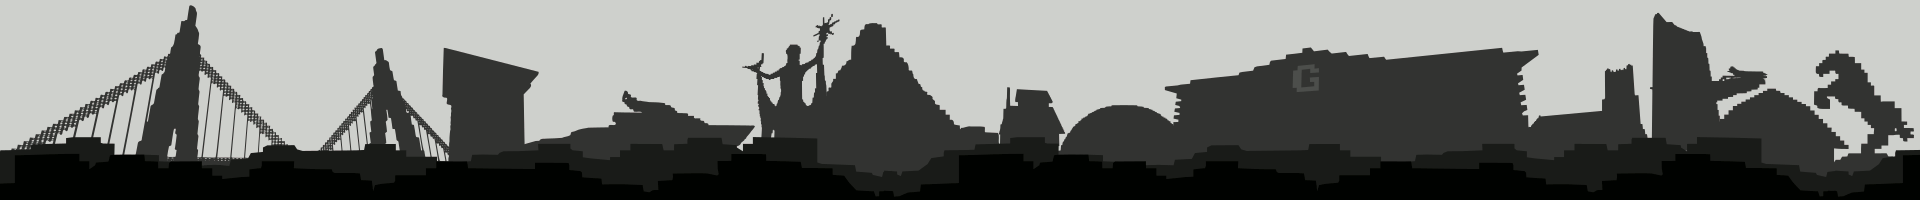
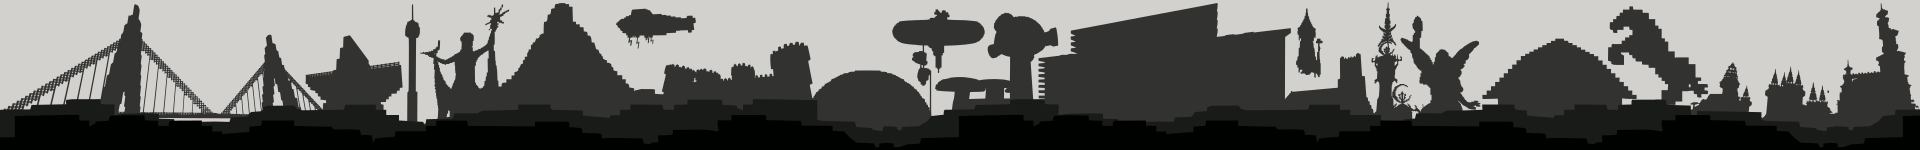
Update footer image

diff --git a/css/index.css b/css/index.css
@@ -339,8 +339,9 @@ body > section#Survival > container menu > a:hover
 body > footer
 {
     background: #000000 url("../img/footer-bg.png") repeat-x center top;
-    min-height: 200px;
-    padding:    216px 16px 16px;
+    min-height: 150px;
+    padding:    166px 16px 16px;
+    margin-top: 2em;
 }
 
 body > footer > container p
